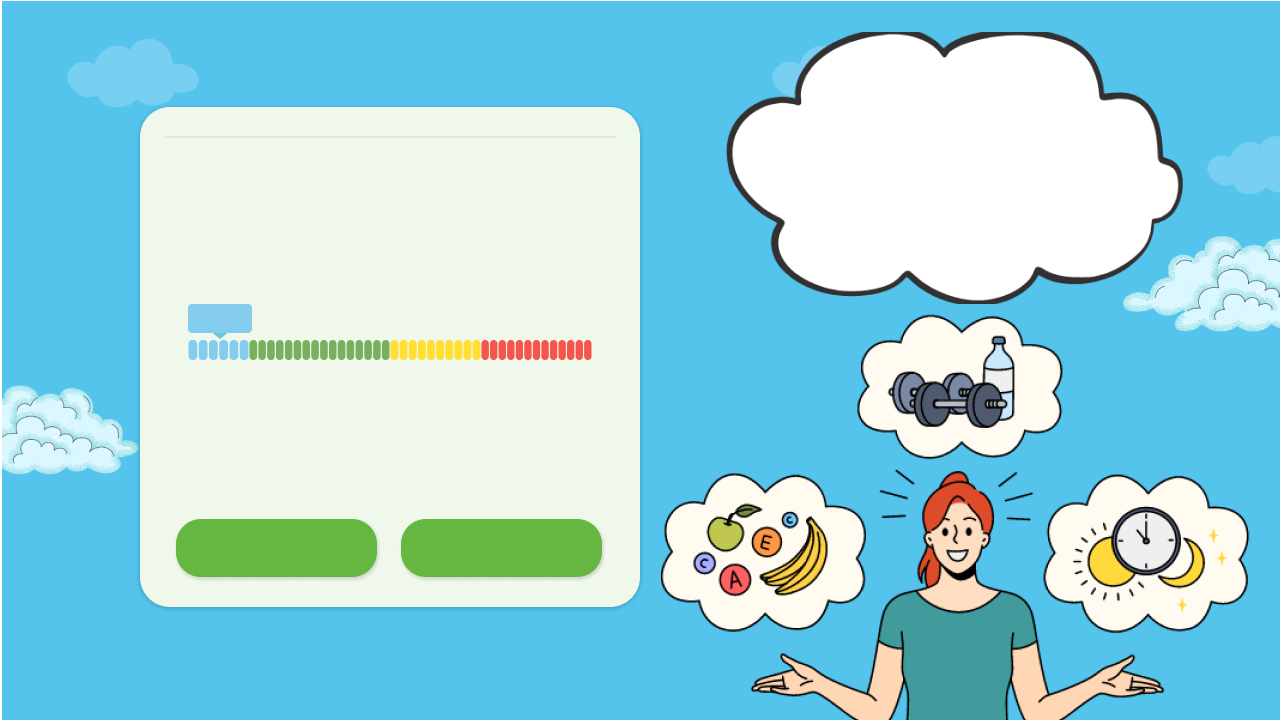
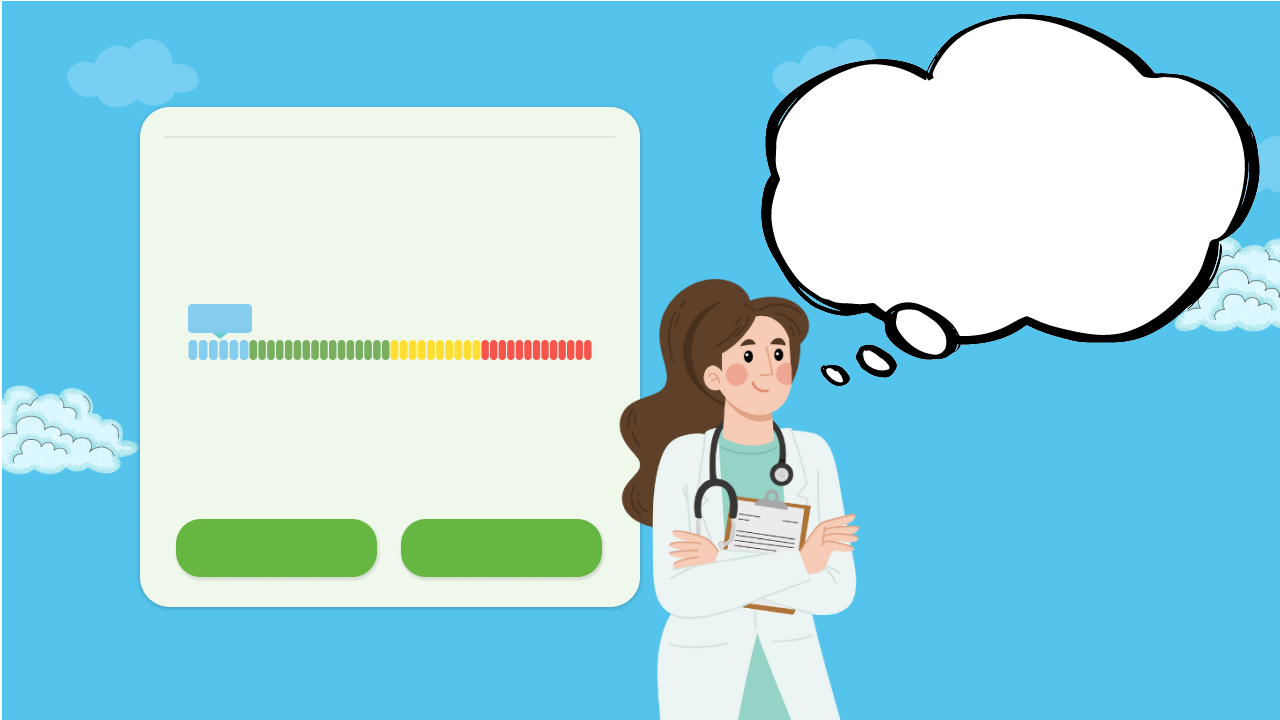
Câu 1. Thêm JFrame giao diện cho béo phì
Câu 1. Thêm JFrame giao diện cho béo phì

Changed region(s): [[0.4688, 0.0, 1.0, 1.0]]

diff --git a/Cau1_AppBMI/ntu/NguyenKhacDuyHung_63132095/Obese.java b/Cau1_AppBMI/ntu/NguyenKhacDuyHung_63132095/Obese.java
@@ -1,0 +1,59 @@
+package ntu.NguyenKhacDuyHung_63132095;
+
+import java.awt.Color;
+import java.awt.EventQueue;
+
+import javax.swing.ImageIcon;
+import javax.swing.JFrame;
+import javax.swing.JLabel;
+import javax.swing.JPanel;
+import javax.swing.border.EmptyBorder;
+
+public class Obese extends JFrame {
+
+	private static final long serialVersionUID = 1L;
+	private JPanel contentPane;
+
+	/**
+	 * Launch the application.
+	 */
+	public static void main(String[] args) {
+		EventQueue.invokeLater(new Runnable() {
+			public void run() {
+				try {
+					Obese frame = new Obese();
+					frame.setVisible(true);
+				} catch (Exception e) {
+					e.printStackTrace();
+				}
+			}
+		});
+	}
+
+	/**
+	 * Create the frame.
+	 */
+	public Obese() {
+		setTitle("Ứng dụng kiểm tra chỉ số BMI");
+		setDefaultCloseOperation(JFrame.EXIT_ON_CLOSE);
+		setBounds(100, 100, 1280, 720);
+		contentPane = new JPanel();
+		contentPane.setBorder(new EmptyBorder(5, 5, 5, 5));
+		setContentPane(contentPane);
+		contentPane.setLayout(null);
+		
+		JPanel panel = new JPanel();
+		panel.setBackground(new Color(255, 255, 255));
+		panel.setBounds(165, 10, 948, 62);
+		panel.setOpaque(false);
+		contentPane.add(panel);
+		panel.setLayout(null);
+		
+		JLabel bgImage = new JLabel("");
+		bgImage.setIcon(new ImageIcon(Obese.class.getResource("/images/BeoPhi.png")));
+		bgImage.setBounds(0, 0, 1266, 683);
+		contentPane.add(bgImage);
+		
+	}
+
+}
